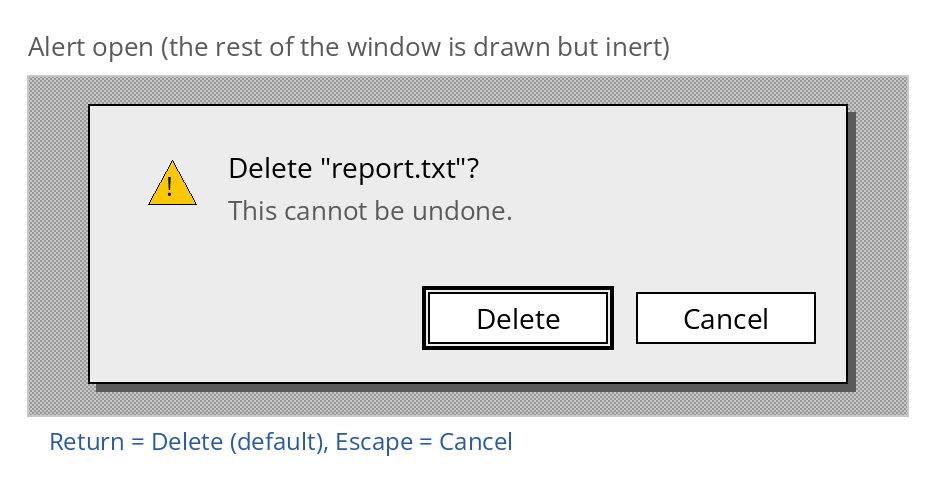
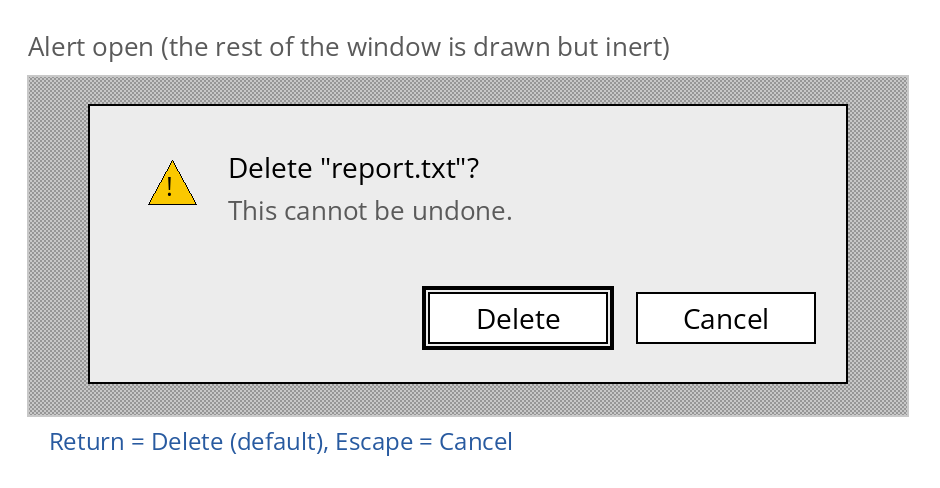
docs(mockups): Chassis code editor mockups; remove the window drop shadow
The window helper still drew an offset shadow (alert, file chooser,
composite alert); removed per the no-shadows rule.

Claude-Session: https://claude.ai/code/session_014QbAny3BSUJNBZtu6oJccA

Changed region(s): [[0.0926, 0.2152, 0.9255, 0.8299]]

diff --git a/docs/mockups/generate.py b/docs/mockups/generate.py
@@ -224,7 +224,6 @@ class C:
         self.rect(x, y, w, 20, fill=(255, 255, 225)); self.text(x + 6, y + 2, s, size=12)
 
     def window(self, x, y, w, h, title=None):
-        self.rect(x + 4, y + 4, w, h, fill=DARK, outline=None)
         self.rect(x, y, w, h, fill=PANEL)
         if title:
             self.rect(x, y, w, 24, fill=WHITE); self.ctext(x, y, w, 24, title)
@@ -1096,6 +1095,150 @@ def spinner():
     c = C(190, 50); c.text(46, 15, "Connected"); out.append(("Stopped (hidden)", c, None))
     c = C(190, 50); _spinner(c, 26, 25, 11, 0, static=True); c.text(46, 15, "Connecting…"); out.append(("Outline mode / vintage: static", c, None))
     return out
+
+
+# ---- Chassis code editor (Epic 11) -------------------------------------------------------
+_MONO = [os.path.join(HERE, "..", "..", "assets", "DejaVuSansMono.ttf"),
+         "/usr/share/fonts/truetype/dejavu/DejaVuSansMono.ttf",
+         "/usr/share/fonts/truetype/freefont/FreeMono.ttf"]
+def mono(size=13):
+    key = ("mono", size)
+    if key not in _fonts:
+        path = next((p for p in _MONO if os.path.exists(p)), FONT_PATH)
+        _fonts[key] = ImageFont.truetype(path, size * S)
+    return _fonts[key]
+
+KW, STR, COM, NUM, FN_ = (30, 60, 140), (40, 110, 50), (120, 120, 120), (150, 60, 40), (90, 50, 120)
+CODE = [
+    [("// Generated by Chassis. Edit inside the function body only.", COM)],
+    [("fn ", KW), ("on_save_clicked", FN_), ("(state: &", BLACK), ("mut ", KW), ("AppState, ui: &", BLACK), ("mut ", KW), ("Ui) {", BLACK)],
+    [("    ", BLACK), ("let ", KW), ("name = ui.text(ids::NAME_FIELD);", BLACK)],
+    [("    ", BLACK), ("if ", KW), ("name.is_empty() {", BLACK)],
+    [("        ui.alert(", BLACK), ("\"Please enter a name.\"", STR), (");", BLACK)],
+    [("        ", BLACK), ("return", KW), (";", BLACK)],
+    [("    }", BLACK)],
+    [("    state.retries = ", BLACK), ("0", NUM), (";", BLACK)],
+    [("    state.save(name);", BLACK)],
+    [("}", BLACK)],
+]
+LH, CW = 18, 7.8   # line height and character width (13 px DejaVu Sans Mono)
+
+def _code(c, x, y, w, h, lines=CODE, first=1, current=None, caret=None, sel=None, colors=True,
+          marks=(), boxes=(), guarded=(), focused=True):
+    """Draws an editor: gutter with line numbers, code, current-line band, selection, caret."""
+    gw = max(34, len(str(first + len(lines) - 1)) * 7 + 14)
+    c.rect(x, y, w, h, fill=WHITE)
+    c.rect(x + 1, y + 1, gw, h - 2, fill=PANEL, outline=None)
+    c.line(x + gw + 1, y + 1, x + gw + 1, y + h - 2, GRAY)
+    tx = x + gw + 8
+    for n, toks in enumerate(lines):
+        ly = y + 4 + n * LH
+        if ly + LH > y + h: break
+        ln = first + n
+        if ln in guarded:
+            c.rect(x + gw + 2, ly, w - gw - 3, LH, fill=(226, 226, 226), outline=None)
+        if current == ln:
+            c.rect(x + gw + 2, ly, w - gw - 3, LH, fill=(244, 244, 244), outline=None)
+        for (sx, sw) in [m for (l, *m) in marks if l == ln]:
+            c.rect(tx + sx * CW - 1, ly + 1, sw * CW + 2, LH - 2, fill=None, outline=DARK)
+        for (bl, bc) in boxes:
+            if bl == ln: c.rect(tx + bc * CW - 1, ly + 1, CW + 2, LH - 2, fill=None, outline=BLACK)
+        num = str(ln)
+        c.d.text(((x + gw - 4) * S - c.d.textlength(num, font=mono(11)), (ly + 3) * S), num,
+                 fill=BLACK if current == ln else MID, font=mono(11))
+        col = 0
+        text = "".join(t for t, _ in toks)
+        sel_range = None
+        if sel:
+            (l1, c1), (l2, c2) = sel
+            if l1 <= ln <= l2:
+                a = c1 if ln == l1 else 0
+                b = c2 if ln == l2 else len(text) + 1
+                sel_range = (a, b)
+        if sel_range and sel_range[1] > sel_range[0]:
+            a, b = sel_range
+            c.rect(tx + a * CW, ly, (b - a) * CW, LH, fill=BLACK, outline=None)
+        for t, color in toks:
+            for ch in t:
+                inside = sel_range and sel_range[0] <= col < sel_range[1]
+                fg = WHITE if inside else (color if colors else BLACK)
+                c.d.text(((tx + col * CW) * S, (ly + 1) * S), ch, fill=fg, font=mono(13))
+                col += 1
+    if caret and focused:
+        cl, cc = caret
+        ly = y + 4 + (cl - first) * LH
+        inv = sel and sel[0][0] <= cl <= sel[1][0]
+        c.rect(tx + cc * CW - 1, ly + 1, 2, LH - 2, fill=WHITE if inv and cc < len("".join(t for t, _ in lines[cl - first])) else BLACK, outline=None)
+    if focused:
+        c.rect(x, y, w, h, fill=None, outline=BLACK, width=2)
+
+W_ED, H_ED = 560, 4 + len(CODE) * LH + 6
+
+@sb("11.2")
+def code_editor_view():
+    a = C(W_ED + 28, H_ED + 28); _code(a, 14, 14, W_ED, H_ED, current=3, caret=(3, 35))
+    b = C(W_ED + 28, H_ED + 28)
+    big = [[(f"    let row_{i} = table.row(", BLACK), (str(i), NUM), (");", BLACK)] for i in range(4096, 4106)]
+    _code(b, 14, 14, W_ED - 16, H_ED, lines=big, first=4096, current=4100, caret=(4100, 4))
+    b.scrollbar(14 + W_ED - 16, 14, H_ED, True, 0.82, 0.04)
+    return [("1. Gutter with line numbers, flat syntax colors, current line, caret", a, None),
+            ("2. Line 4,096 of a 5,000-line file: only visible lines are laid out and drawn", b, None)]
+
+@sb("11.3")
+def code_editor_editing():
+    a = C(W_ED + 28, H_ED + 28); _code(a, 14, 14, W_ED, H_ED, current=3, caret=(3, 8), sel=((3, 8), (3, 12)))
+    a.ibeam(14 + 42 + 10 * CW, 14 + 4 + 2 * LH)
+    b = C(W_ED + 28, H_ED + 28); _code(b, 14, 14, W_ED, H_ED, current=9, caret=(9, 0), sel=((7, 4), (9, 0)))
+    lines = [list(l) for l in CODE]
+    lines[2] = [("    ", BLACK), ("let ", KW), ("user = ui.text(ids::NAME_FIELD);", BLACK)]
+    d = C(W_ED + 28, H_ED + 28); _code(d, 14, 14, W_ED, H_ED, lines=lines, current=3, caret=(3, 12))
+    return [("1. Double-click selects a word", a, "SelectionChanged"),
+            ("2. Drag (or Shift+arrows) selects across lines", b, "SelectionChanged"),
+            ("3. Typing replaces the selection", d, "TextChanged { range }")]
+
+@sb("11.5")
+def code_editor_highlighting():
+    a = C(W_ED + 28, H_ED + 28); _code(a, 14, 14, W_ED, H_ED, colors=False, focused=False)
+    b = C(W_ED + 28, H_ED + 28); _code(b, 14, 14, W_ED, H_ED, focused=False)
+    return [("Before: plain text", a, None), ("After: tree-sitter highlighting (keywords, strings, numbers, comments)", b, None)]
+
+@sb("11.6")
+def code_editor_find():
+    a = C(W_ED + 28, H_ED + 28)
+    texts = ["".join(t for t, _ in l) for l in CODE]
+    hits = [(n + 1, i) for n, t in enumerate(texts) if n > 1 for i in range(len(t)) if t.startswith("name", i) and not t[i - 1].isalnum() and t[i - 1] != "_"]
+    first_hit = hits[0]
+    _code(a, 14, 14, W_ED, H_ED, current=first_hit[0], marks=[(l, i, 4) for l, i in hits[1:]],
+          sel=((first_hit[0], first_hit[1]), (first_hit[0], first_hit[1] + 4)))
+    fx, fy = 14 + W_ED - 262, 14 + 6
+    a.rect(fx, fy, 254, 30, fill=PANEL)
+    a.field(fx + 6, fy + 4, 140, "name", caret=4, focused=True)
+    a.text(fx + 152, fy + 7, f"1 of {len(hits)}", DARK, 12)
+    a.glyph(fx + 196, fy + 6, 18, "up"); a.glyph(fx + 214, fy + 6, 18, "down")
+    a.button(fx + 232, fy + 6, 18, 18, "×")
+    return [("Ctrl+F: find bar inside the editor; matches outlined, current match selected", a, "FindChanged")]
+
+@sb("11.7")
+def code_editor_indent():
+    pre = [list(l) for l in CODE[:4]] + [[("", BLACK)]]
+    brace = len("".join(t for t, _ in CODE[3])) - 1
+    a = C(W_ED + 28, 4 + 5 * LH + 34); _code(a, 14, 14, W_ED, 4 + 5 * LH + 6, lines=pre, current=4, caret=(4, brace + 1))
+    post = [list(l) for l in CODE[:4]] + [[("", BLACK)]]
+    b = C(W_ED + 28, 4 + 5 * LH + 34); _code(b, 14, 14, W_ED, 4 + 5 * LH + 6, lines=post, current=5, caret=(5, 8))
+    c3 = C(W_ED + 28, H_ED + 28); _code(c3, 14, 14, W_ED, H_ED, current=7, caret=(7, 5), boxes=[(4, brace), (7, 4)])
+    return [("1. Caret after '{'", a, None), ("2. Return: new line indented one level", b, "TextChanged"),
+            ("3. Caret next to '}': its matching '{' is boxed", c3, None)]
+
+@sb("11.8")
+def code_editor_chassis():
+    a = C(300, H_ED + 28)
+    a.window(14, 14, 272, 150, "Contact")
+    x = a.labeled(28, 58, "Name:", 50); a.field(x, 56, 170, "")
+    a.button(200, 120, 70, 24, "Save", default=True); a.pointer(236, 132)
+    b = C(W_ED + 28, H_ED + 28); _code(b, 14, 14, W_ED, H_ED, current=3, caret=(3, 4), guarded=(1, 2, 10))
+    b.text(14 + W_ED - 190, 14 + H_ED - 22, "shaded lines are read-only", DARK, 11)
+    return [("1. Chassis: double-click the Save button", a, "designer asks the editor for its handler"),
+            ("2. Editor: stub inserted (or found), caret placed in the body; generated lines read-only", b, "insert_function / reveal_range")]
 
 
 def main():
